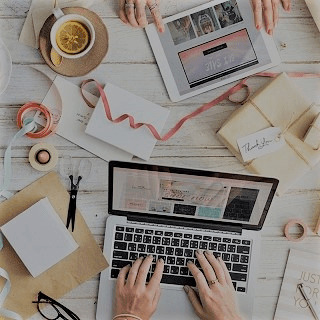
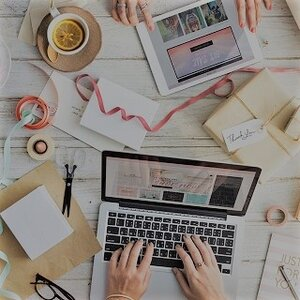
conversion images en jpg

diff --git a/index.html b/index.html
@@ -4,7 +4,7 @@
     <meta charset="utf-8">
     <meta name="description" content="La chouette agence, une agence de web design basée à Lyon. Nous aidons les entreprises à devenir attractives et visibles sur Internet.">
     <meta name="viewport" content="width=device-width, initial-scale=1.0, viewport-fit=cover">
-    <link rel="shortcut icon" type="image/png" href="favicon.jpg">
+    <link rel="shortcut icon" type="image/png==" href="favicon.jpg">
     
 	<link rel="stylesheet" type="text/css" href="./css/bootstrap.css">
 	<link rel="stylesheet" type="text/css" href="style.css">
@@ -36,7 +36,7 @@
 
 		<nav class="navbar row">
 			<div class="navbar-header">
-				<a class="navbar-brand" href="index.html"><img src="img/la-chouette-agence.png" alt="Logo de La Chouette Agence, une chouette blanche et noire"/></a>
+				<a class="navbar-brand" href="index.html"><img src="img/la-chouette-agence.jpg" alt="Logo de La Chouette Agence, une chouette blanche et noire"/></a>
 				<button id="nav-toggle" type="button" class="ui-navbar-toggle navbar-toggle" data-toggle="collapse" data-target=".navbar-1">
 					<span class="sr-only">Toggle navigation</span><span class="icon-bar"></span><span class="icon-bar"></span><span class="icon-bar"></span>
 				</button>

diff --git a/contact.html b/contact.html
@@ -35,7 +35,7 @@
 	<div class="container bloc-sm">
 		<nav class="navbar row">
 			<div class="navbar-header">
-				<a class="navbar-brand" href="index.html"><img src="img/la-chouette-agence.png" alt="Logo de La Chouette Agence" /></a>
+				<a class="navbar-brand" href="index.html"><img src="img/la-chouette-agence.jpg" alt="Logo de La Chouette Agence" /></a>
 			</div>
 			<div class="collapse navbar-collapse navbar-1 special-dropdown-nav">
 				<ul class="site-navigation nav navbar-nav">

diff --git a/style.css b/style.css
@@ -814,7 +814,7 @@ h4 {
 }
 
 .bg-lines-h2-bg {
-    background-image: url("img/lines-h2-bg.png");
+    background-image: url("img/lines-h2-bg.jpg");
 }
 
 .bg-banniere {
